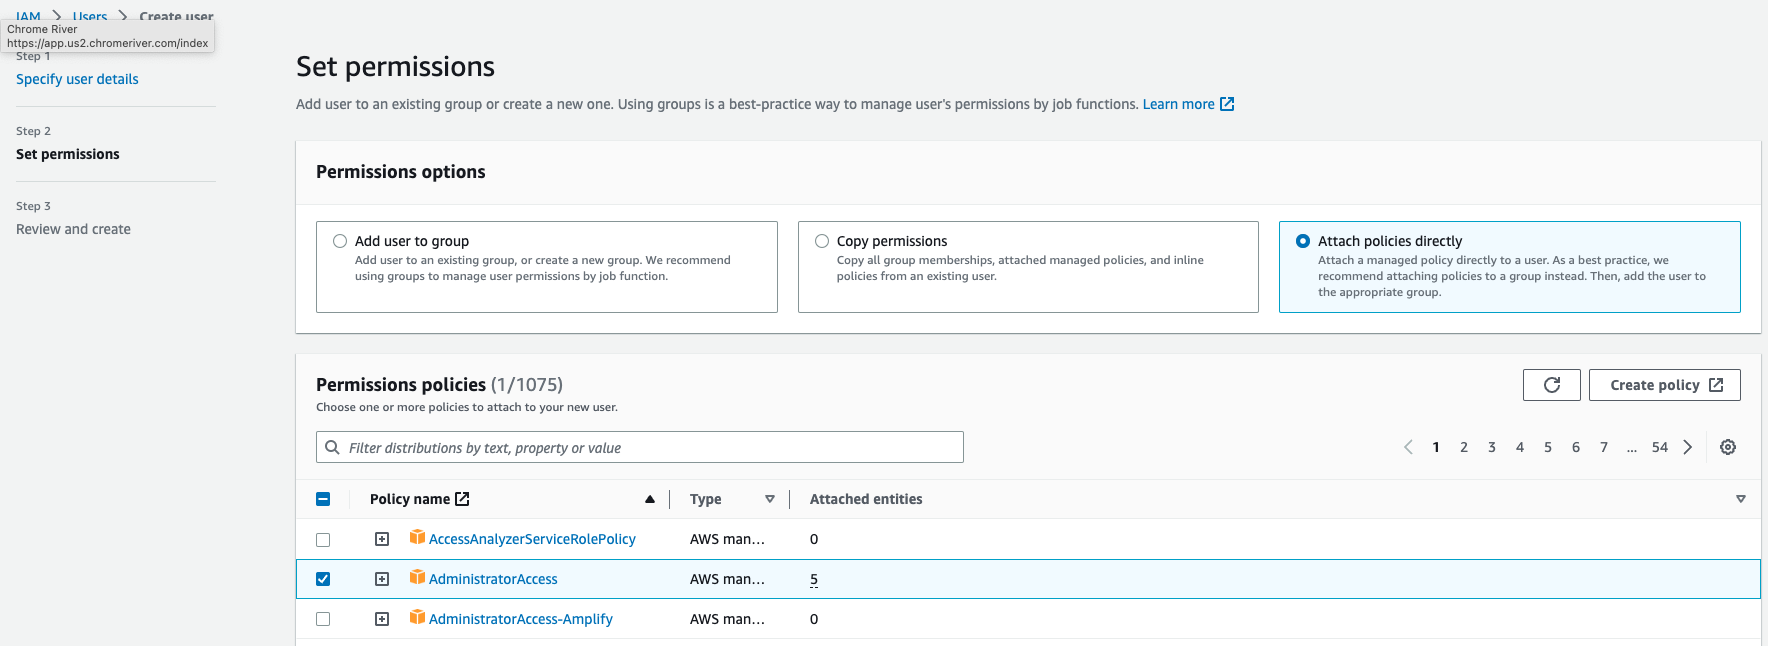
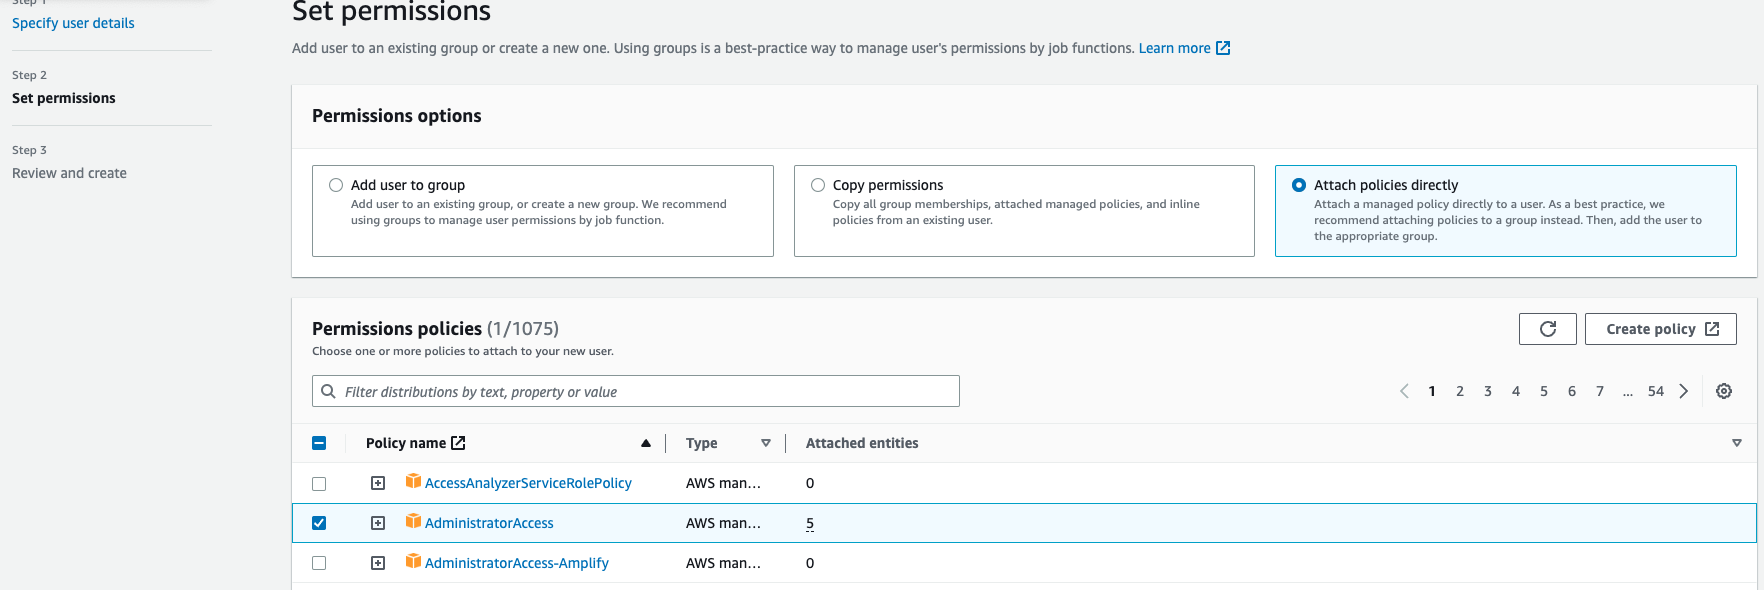
Update TUTORIAL.md
Removed sensitive data from pictures and updated description of the tutorial

diff --git a/TUTORIAL.md b/TUTORIAL.md
@@ -2,6 +2,10 @@
 
 By Christal Poon and Toh Yun Yun
 
+The purpose of this document is to demonstrate how to set up a usable AWS environment to deploy the Amazon MSK Topic Resource, and deploying the resource itself.
+
+An MSK cluster is typically built within a private subnet, with a set of configurations that does not have access to the internet. However, the AWS Lambda function that is deployed with this resource would need to be in a private subnet that is connected to the internet. Additionally, the MSK cluster should be provisioned for the resource to work. Proceed to Section 1 to set up this environment for your MSK cluster. If you already have a working environment, you may proceed to Section 2 for instructions to deploy the resource.
+
 ## Installation Guide
 
 ### Go Language
@@ -126,18 +130,7 @@ To create a secure environment for your workloads, a Virtual Private Cloud (VPC)
 
 Clone the repository into your local device from this link: [https://github.com/aws-samples/amazon-msk-topic-resource](https://github.com/aws-samples/amazon-msk-topic-resource)
 
-#### 2.1 For Internal Users
-
-These setup steps are for internal users who are using this resource. 
-
-- Ensure that you are connected to the VPN
-- On the terminal, run the following command to sign in and authenticate: `mwinit`
-- After authenticating via Midway, run the following command to sign in with your credentials in the terminal: `isengardcli assume`
-    - Key in the region that the s3 bucket have been set up in. eg ap-southeast-1
-    - Select the account to deploy the CloudFormation template in
-
-#### 2.2 For External Users
-#### 2.2.1 Running the resource on your local terminal
+#### 2.1 Running the resource on your local terminal
 
 For external users, ensure that your authenticated in the AWS CLI before proceeding with the following steps
 
@@ -183,7 +176,7 @@ aws cloudformation describe-stacks —stack-name tr —query "Stacks[].Outputs" 
 
 ![Flow](assets/image1.png)
 
-#### 2.2.2 Running the resource on AWS Cloud9 
+#### 2.2 Running the resource on AWS Cloud9 
 
 For external users, ensure that you have an IAM user with Access Key enabled.
 
